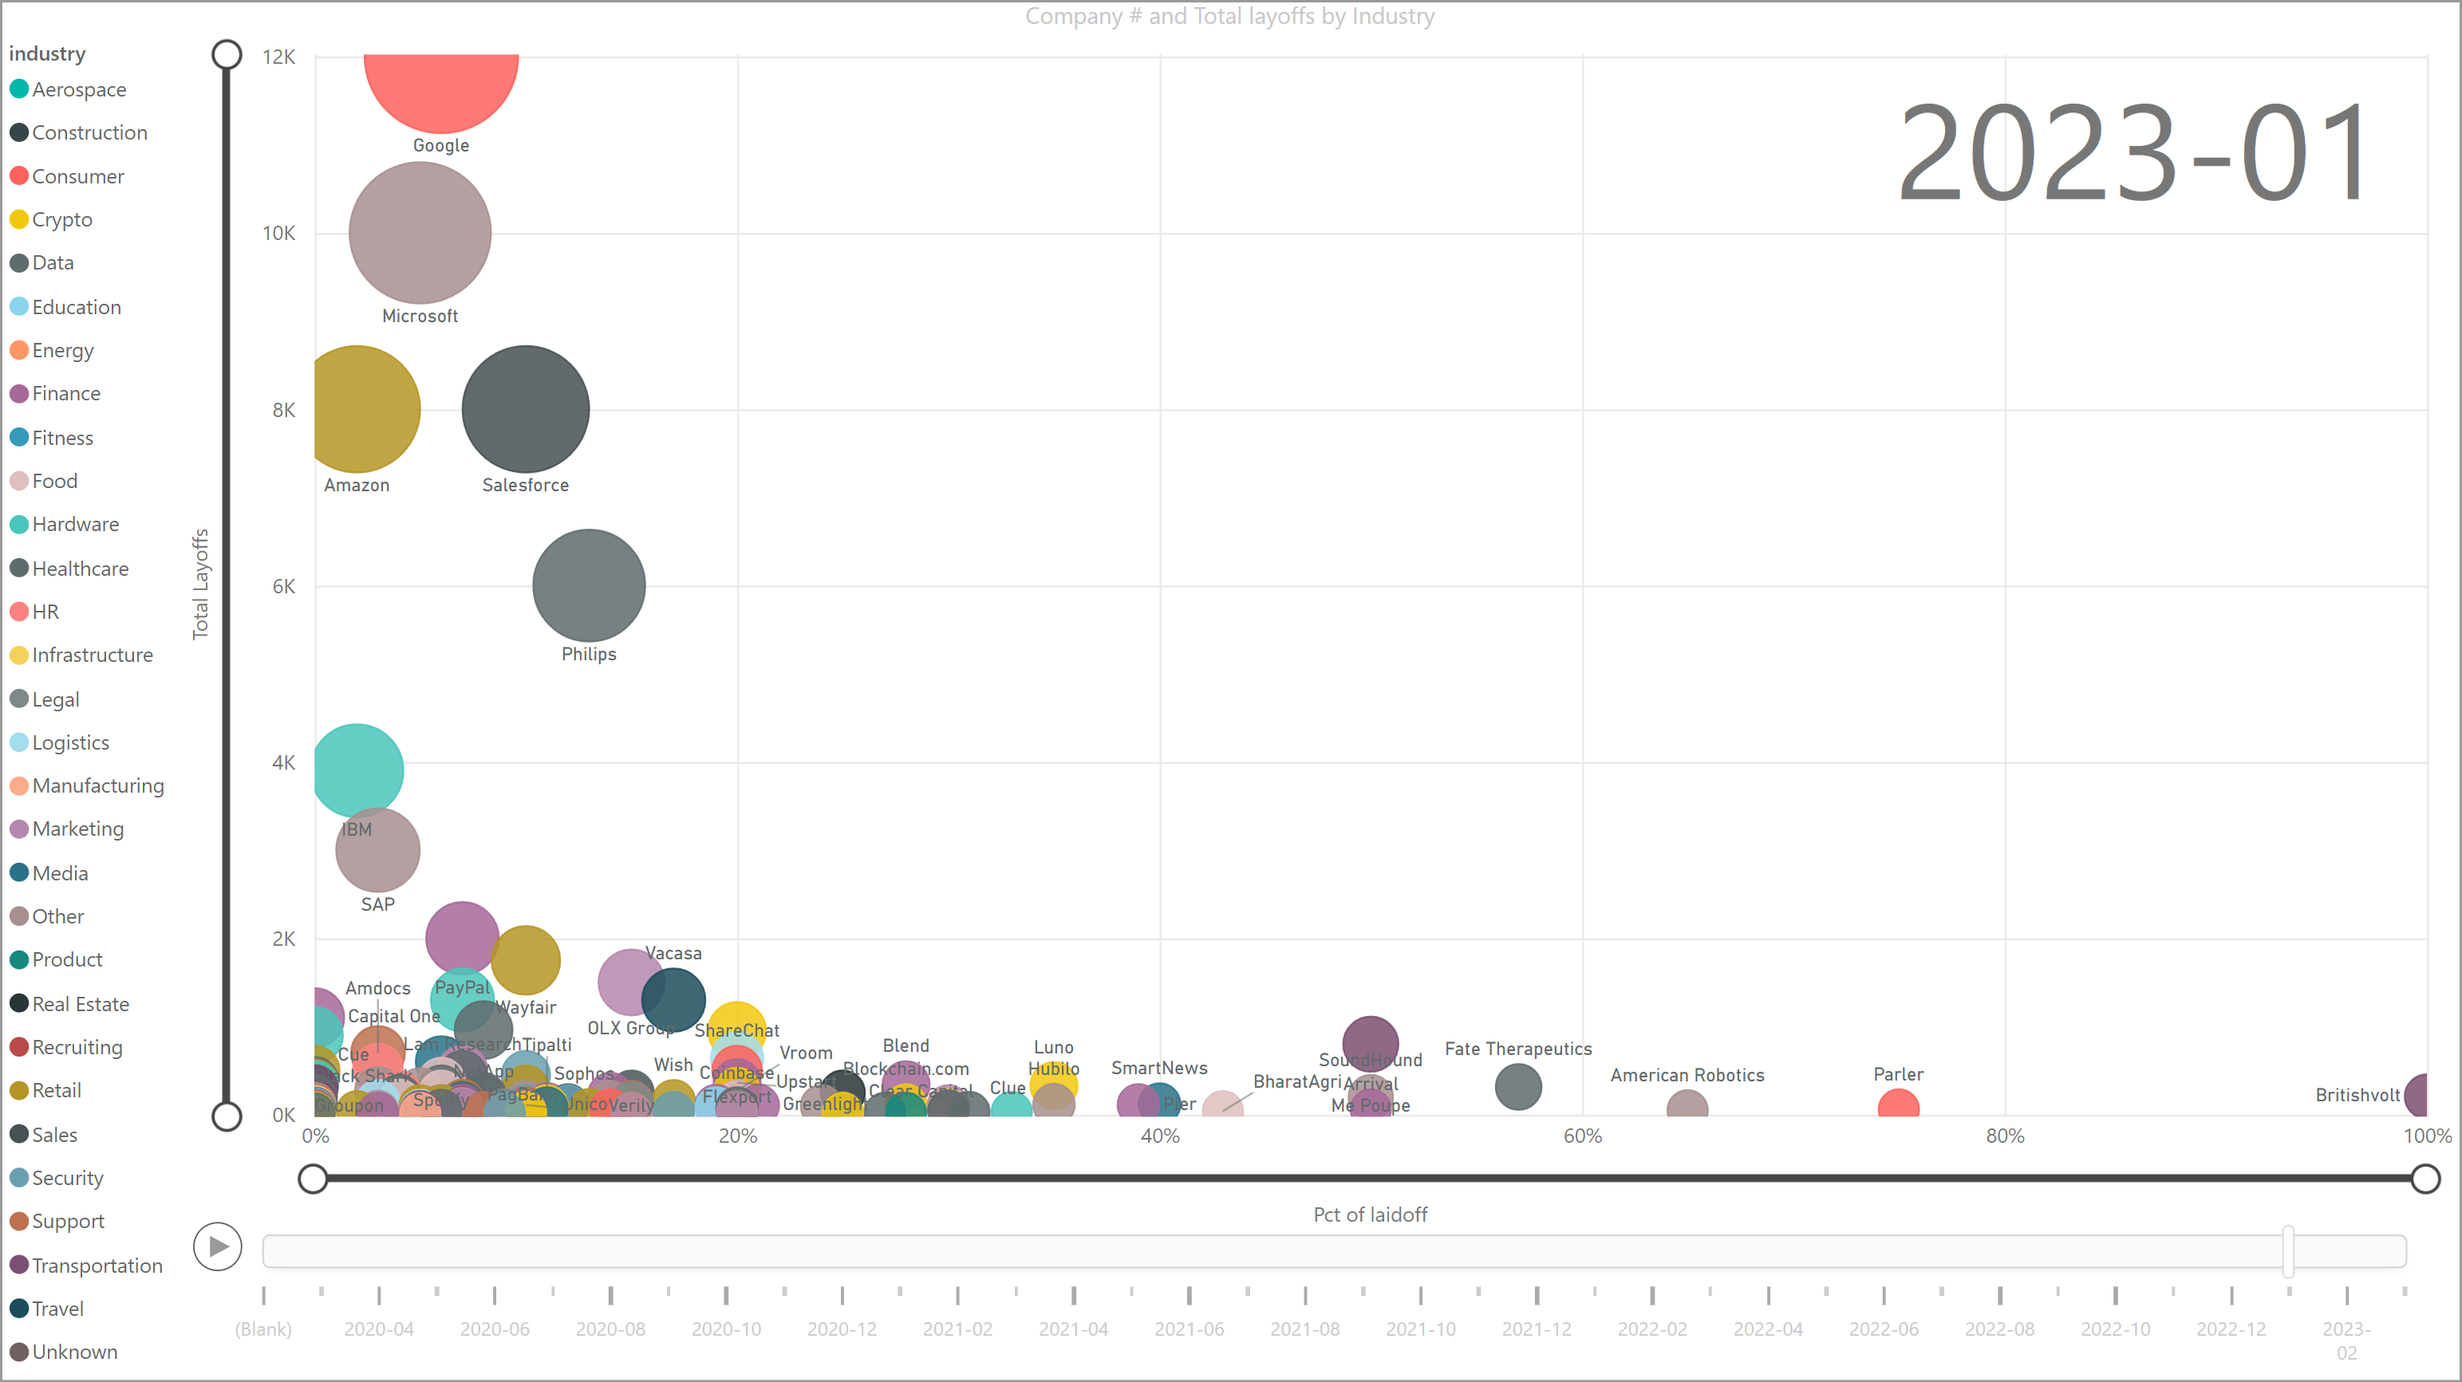
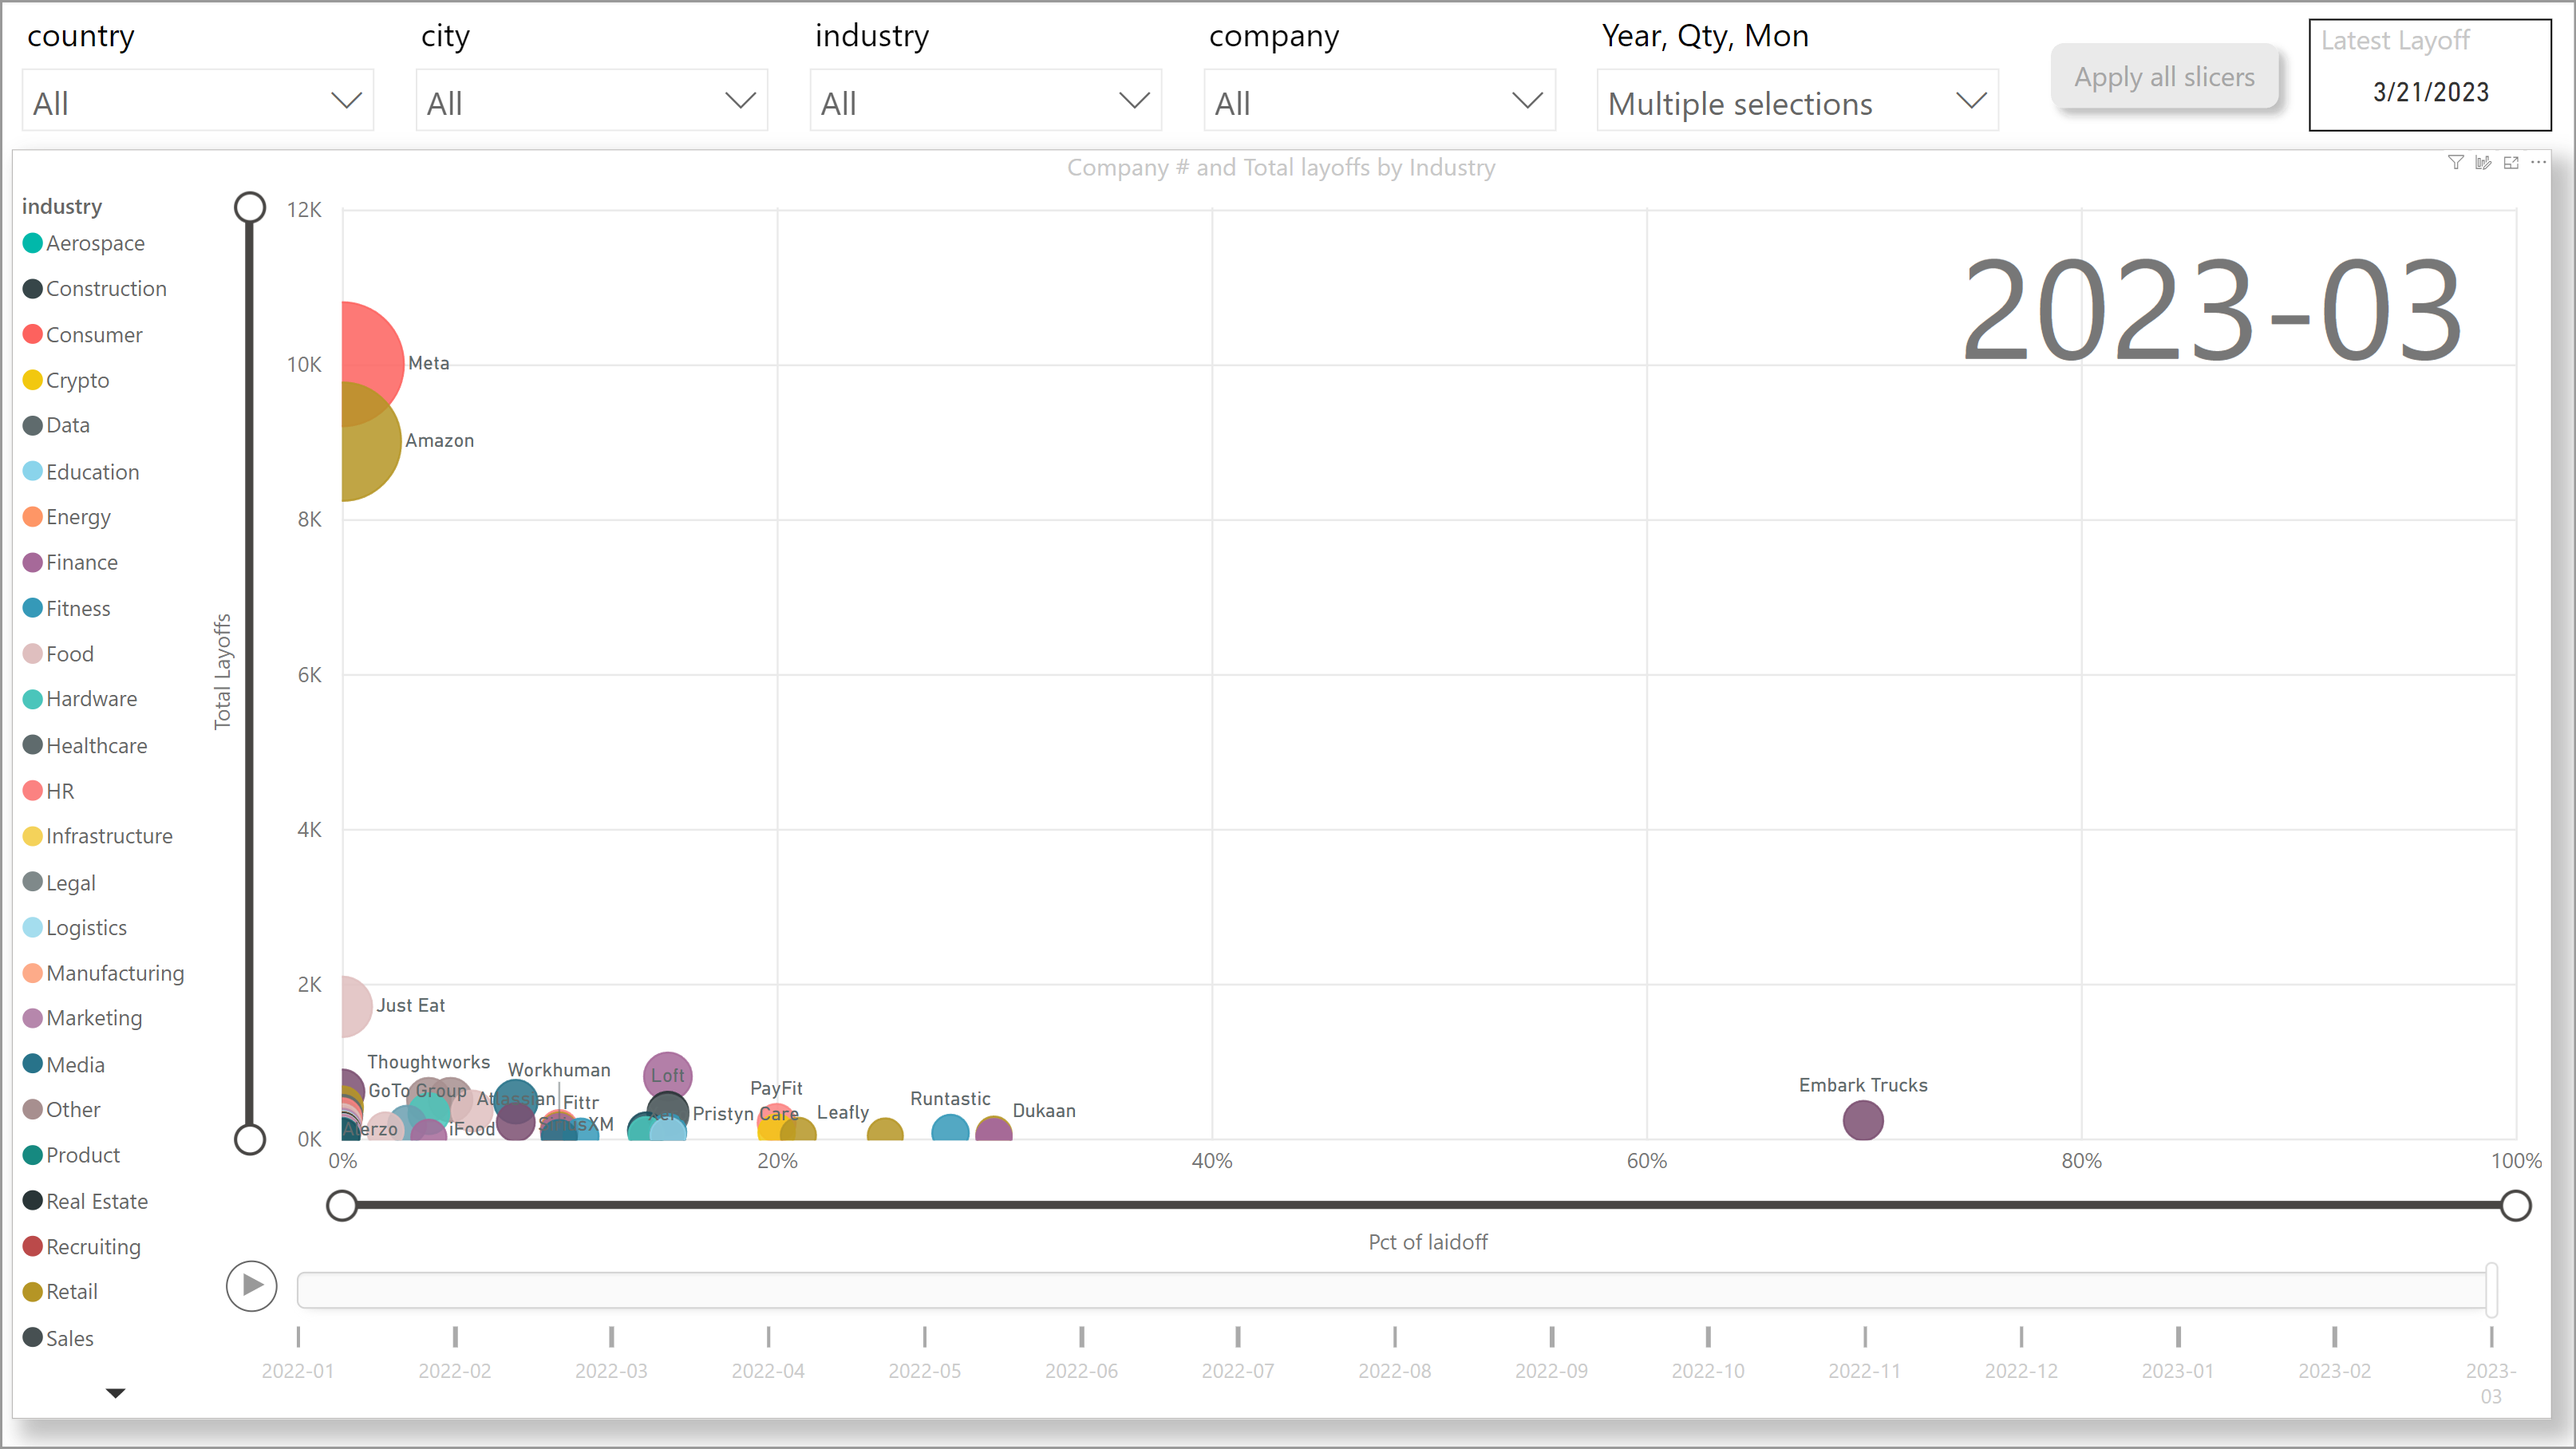
Add "apply all slicers" in PBI

diff --git a/docs/Unicorn.md b/docs/Unicorn.md
@@ -2,7 +2,7 @@
 title: unicorn analysis
 author: Johnney Cao
 date updated: 2023-2-3
-keyword: [Worldbank API, unicorn, parameter, web connector, xml, merge column, split column, html color, table reference]
+keyword: [Worldbank API, unicorn, parameter, web connector, xml, merge column, split column, html color, table reference, Refresh all slicers]
 ---
 
 # Analysis of Unicorn Data
